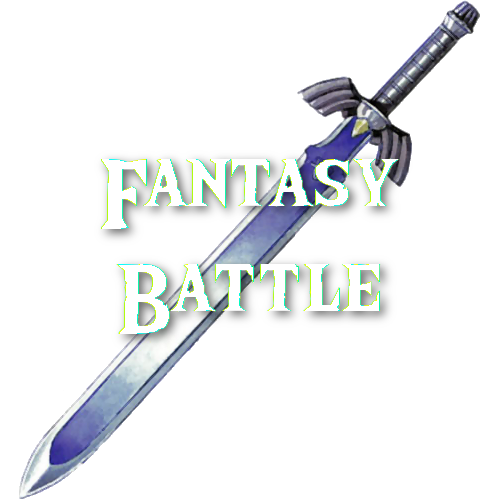
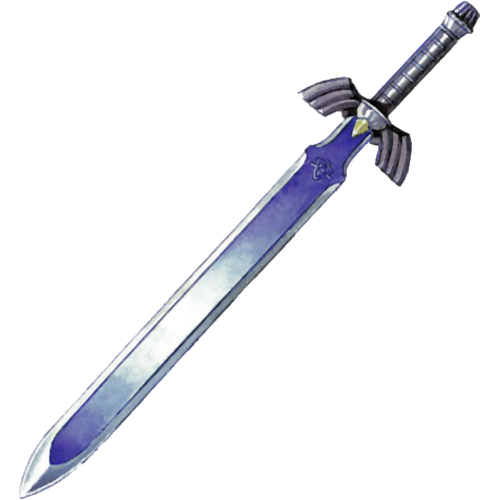
Update api and images

Changed region(s): [[0.21, 0.3, 0.81, 0.48], [0.24, 0.51, 0.78, 0.69]]

diff --git a/database/seeds/ProjectsTableSeeder.php b/database/seeds/ProjectsTableSeeder.php
@@ -17,8 +17,8 @@ class ProjectsTableSeeder extends Seeder
             [
                 'title' => 'Zergling Evolution',
                 'image' => 'projects/zergling-evolution.png',
-                'resume' => null,
-                'github_link' => null,
+                'resume' => 'Aidez Ling, le Zergling, à manger de vilains Terrans pour gagner des points dans ce jeu adapté du célèbre Cookie Clicker ! Collectionnez les bonus organiques proposés par Abathur !',
+                'github_link' => 'https://github.com/ewilan-riviere/zergling-evolution',
                 'try_it' => null,
             ],
             [
@@ -31,49 +31,49 @@ class ProjectsTableSeeder extends Seeder
             [
                 'title' => 'Pomodoro',
                 'image' => 'projects/pomodoro.png',
-                'resume' => null,
-                'github_link' => null,
+                'resume' => 'Travaillez en toute sérénité en prenant soin de vous reposer de façon régulière grâce à ce mignon petit minuteur qui vous aidera à maîtriser votre temps en douceur.',
+                'github_link' => 'https://github.com/ewilan-riviere/pomodoro',
                 'try_it' => null,
             ],
             [
                 'title' => 'Quizz Pokémon',
                 'image' => 'projects/quizz-pokemon.png',
-                'resume' => null,
-                'github_link' => null,
+                'resume' => 'Traversez les épreuves de ce quiz pokémon qui vous interrogera sur les subtilités de cette licence vidéoludique, autant sur les jeu que les animes.',
+                'github_link' => 'https://github.com/ewilan-riviere/quizz-pokemon',
                 'try_it' => null,
             ],
             [
                 'title' => 'Fantasy Battle',
                 'image' => 'projects/fantasy-battle.png',
-                'resume' => null,
-                'github_link' => null,
+                'resume' => 'Combattez avec les personnages tirés de célèbres licences de jeu vidéo.',
+                'github_link' => 'https://github.com/ewilan-riviere/fantasy-battle',
                 'try_it' => null,
             ],
+            // [
+            //     'title' => 'Hackathon',
+            //     'image' => 'projects/hackathon.png',
+            //     'resume' => 'Participation au Hackathon organisé entre l\'Epitha et la Code Académie en avril 2019.',
+            //     'github_link' => null,
+            //     'try_it' => 'http://hackathon.code-academie.fr/',
+            // ],
             [
-                'title' => 'Hackathon',
-                'image' => 'projects/hackathon.png',
-                'resume' => null,
-                'github_link' => null,
-                'try_it' => 'http://hackathon.code-academie.fr/',
-            ],
-            [
-                'title' => 'Site de ./play.it',
+                'title' => './play.it',
                 'image' => 'projects/play.it.png',
-                'resume' => null,
+                'resume' => 'Refonte du site de ./play.it, projet permettant de jouer facilement aux jeux vidéo sous Linux.',
                 'github_link' => 'https://forge.dotslashplay.it/play.it/website',
                 'try_it' => 'https://forge.dotslashplay.it/play.it/website',
             ],
             [
-                'title' => 'Site de la promo #03 · Code Académie',
+                'title' => 'Promo #03 · Code Académie',
                 'image' => 'projects/code-academie.png',
-                'resume' => null,
+                'resume' => 'Création du site de la promo #03 de la Code Académie avec une équipe de passionnés.',
                 'github_link' => 'https://gitlab.com/code-academie/promo-03/apprenants/site-promo-3',
                 'try_it' => 'http://promo03.code-academie.fr/',
             ],
             [
                 'title' => 'Portfolio',
                 'image' => 'projects/portfolio.png',
-                'resume' => null,
+                'resume' => 'Réalisation de mon portfolio.',
                 'github_link' => 'https://github.com/ewilan-riviere/ewilan-riviere-portfolio-front',
                 'try_it' => 'https://ewilan-riviere.tech/',
             ],

diff --git a/app/Transformers/ProjectTransformer.php b/app/Transformers/ProjectTransformer.php
@@ -23,6 +23,12 @@ class ProjectTransformer extends TransformerAbstract
             $attributes['updated_at']
         );
 
+        $imageTitle = storage_path('app/public/'.$project->image);
+        $imageTitleNoExtension = basename($imageTitle, '.png');
+        if (file_exists(storage_path('app/public/projects/'.$imageTitleNoExtension.'-title.png'))) {
+            $attributes['image-title'] = url('storage').'/'.$imageTitleNoExtension.'-title.png';
+        }
+
         if ($project->image == null) {
             $attributes['image'] = url('storage').'/'.'projects/no-image.png';
         }

diff --git a/database/migrations/2019_11_02_091806_create_projects_table.php b/database/migrations/2019_11_02_091806_create_projects_table.php
@@ -17,6 +17,7 @@ class CreateProjectsTable extends Migration
             $table->increments('id');
             $table->string('title');
             $table->string('image')->nullable();
+            $table->string('image-title')->nullable();
             $table->text('resume')->nullable();
             $table->string('github_link')->nullable();
             $table->string('try_it')->nullable();

diff --git a/app/Http/Controllers/API/ApiController.php b/app/Http/Controllers/API/ApiController.php
@@ -77,7 +77,7 @@ class ApiController extends Controller
      *
      */
     public function projects() {
-        $projects = Project::all();
+        $projects = Project::orderBy('title')->get();
 
         return fractal($projects, new ProjectTransformer());
     }
